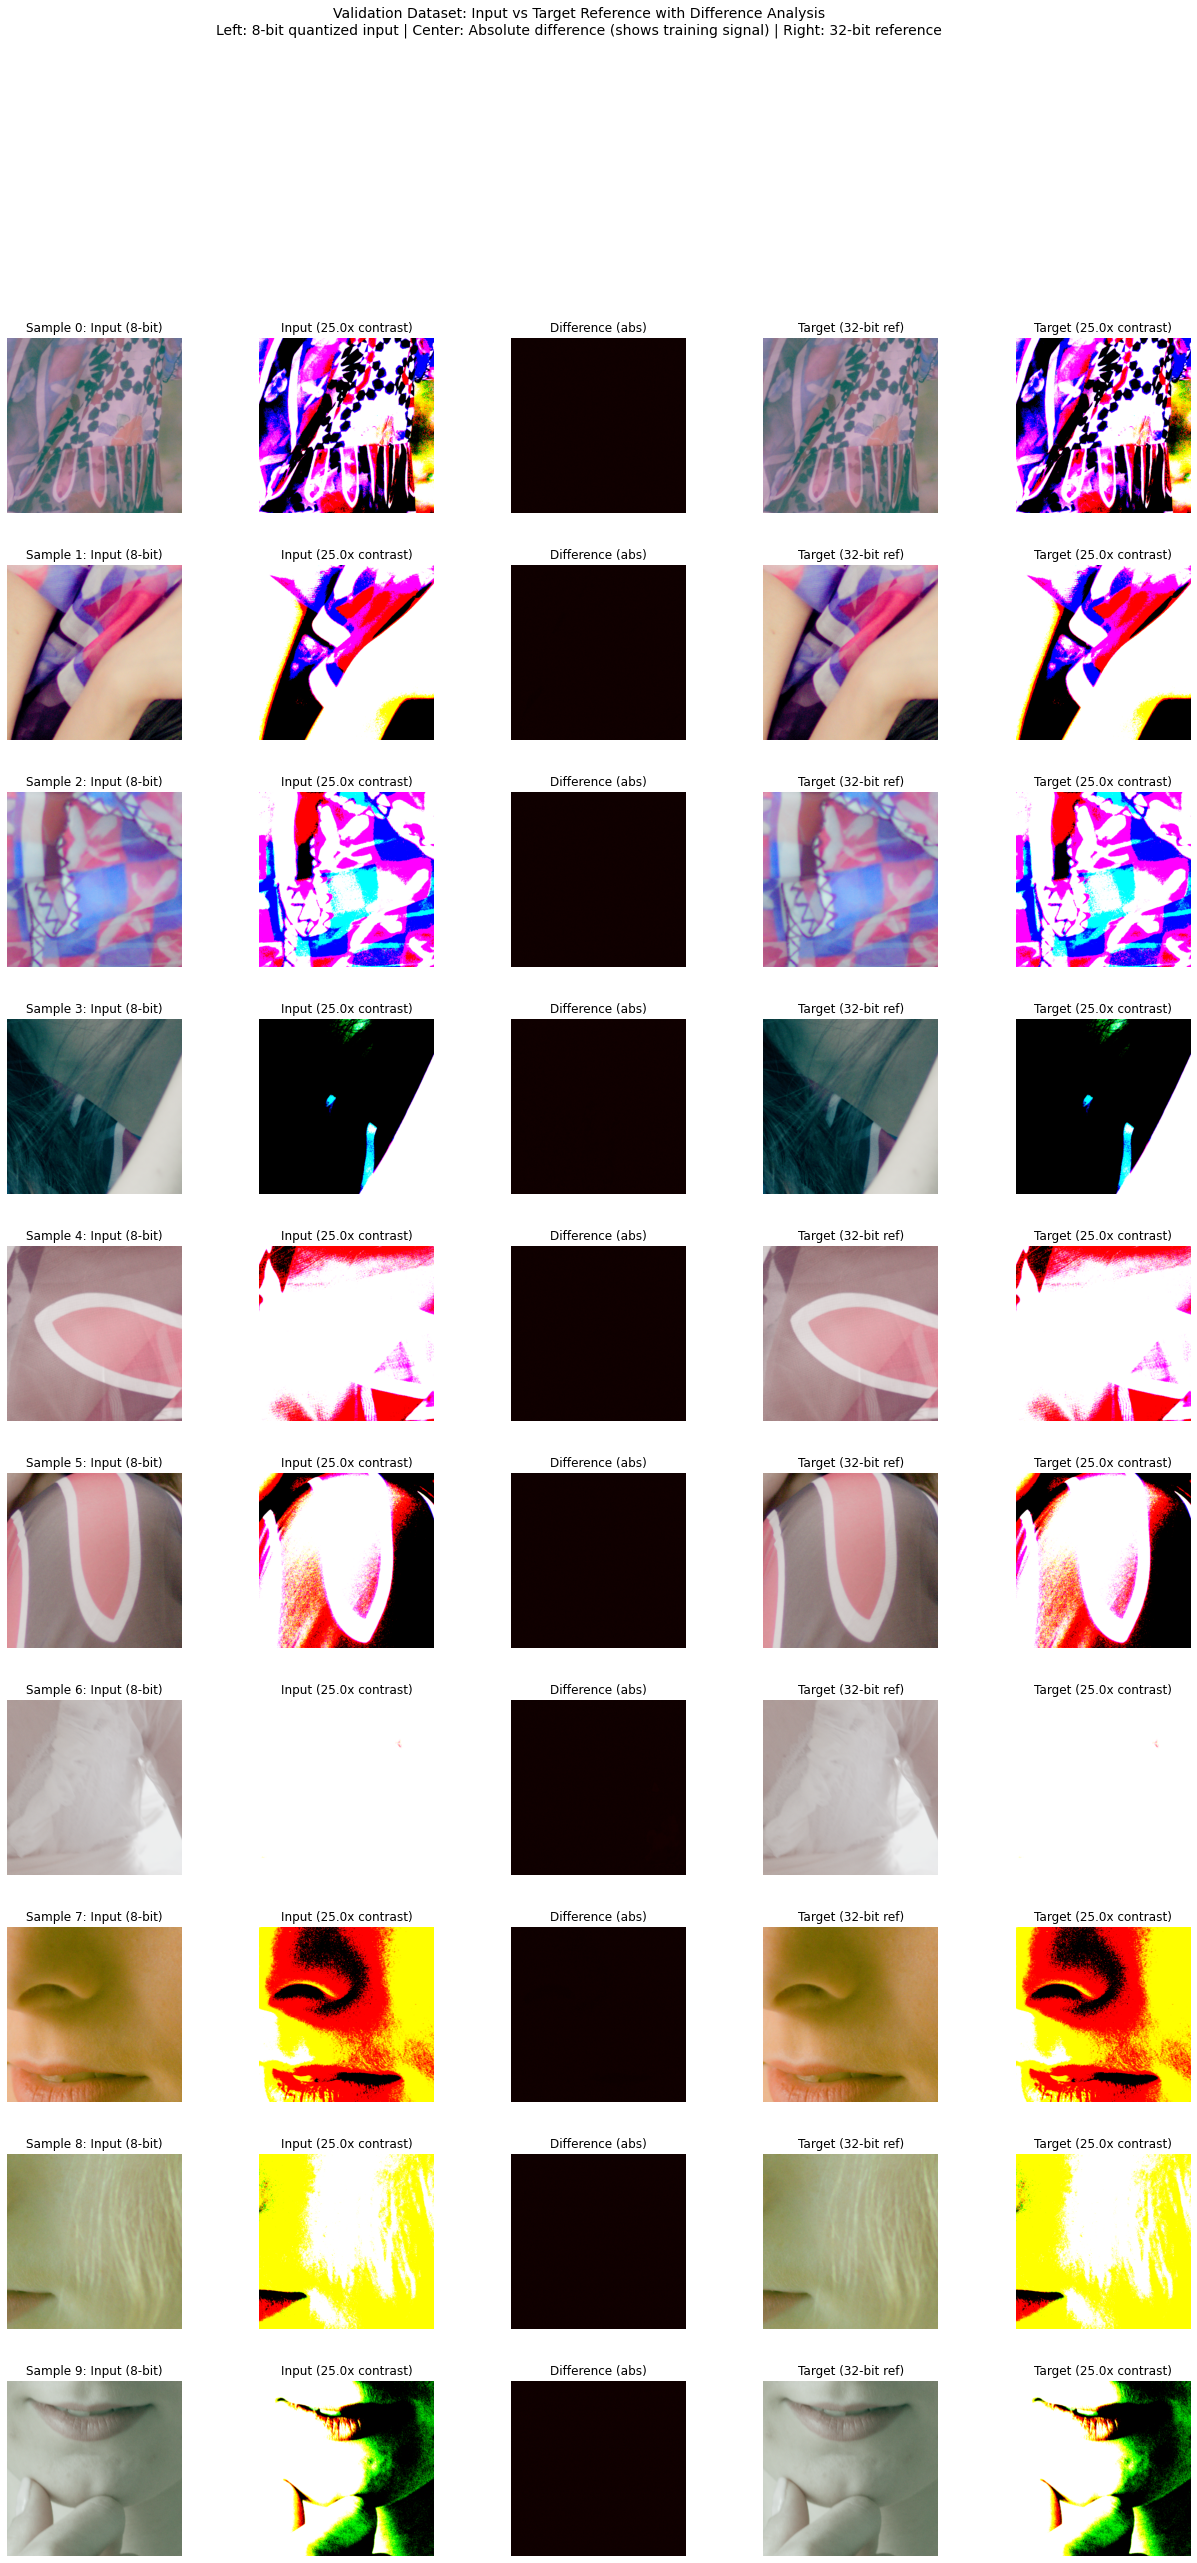
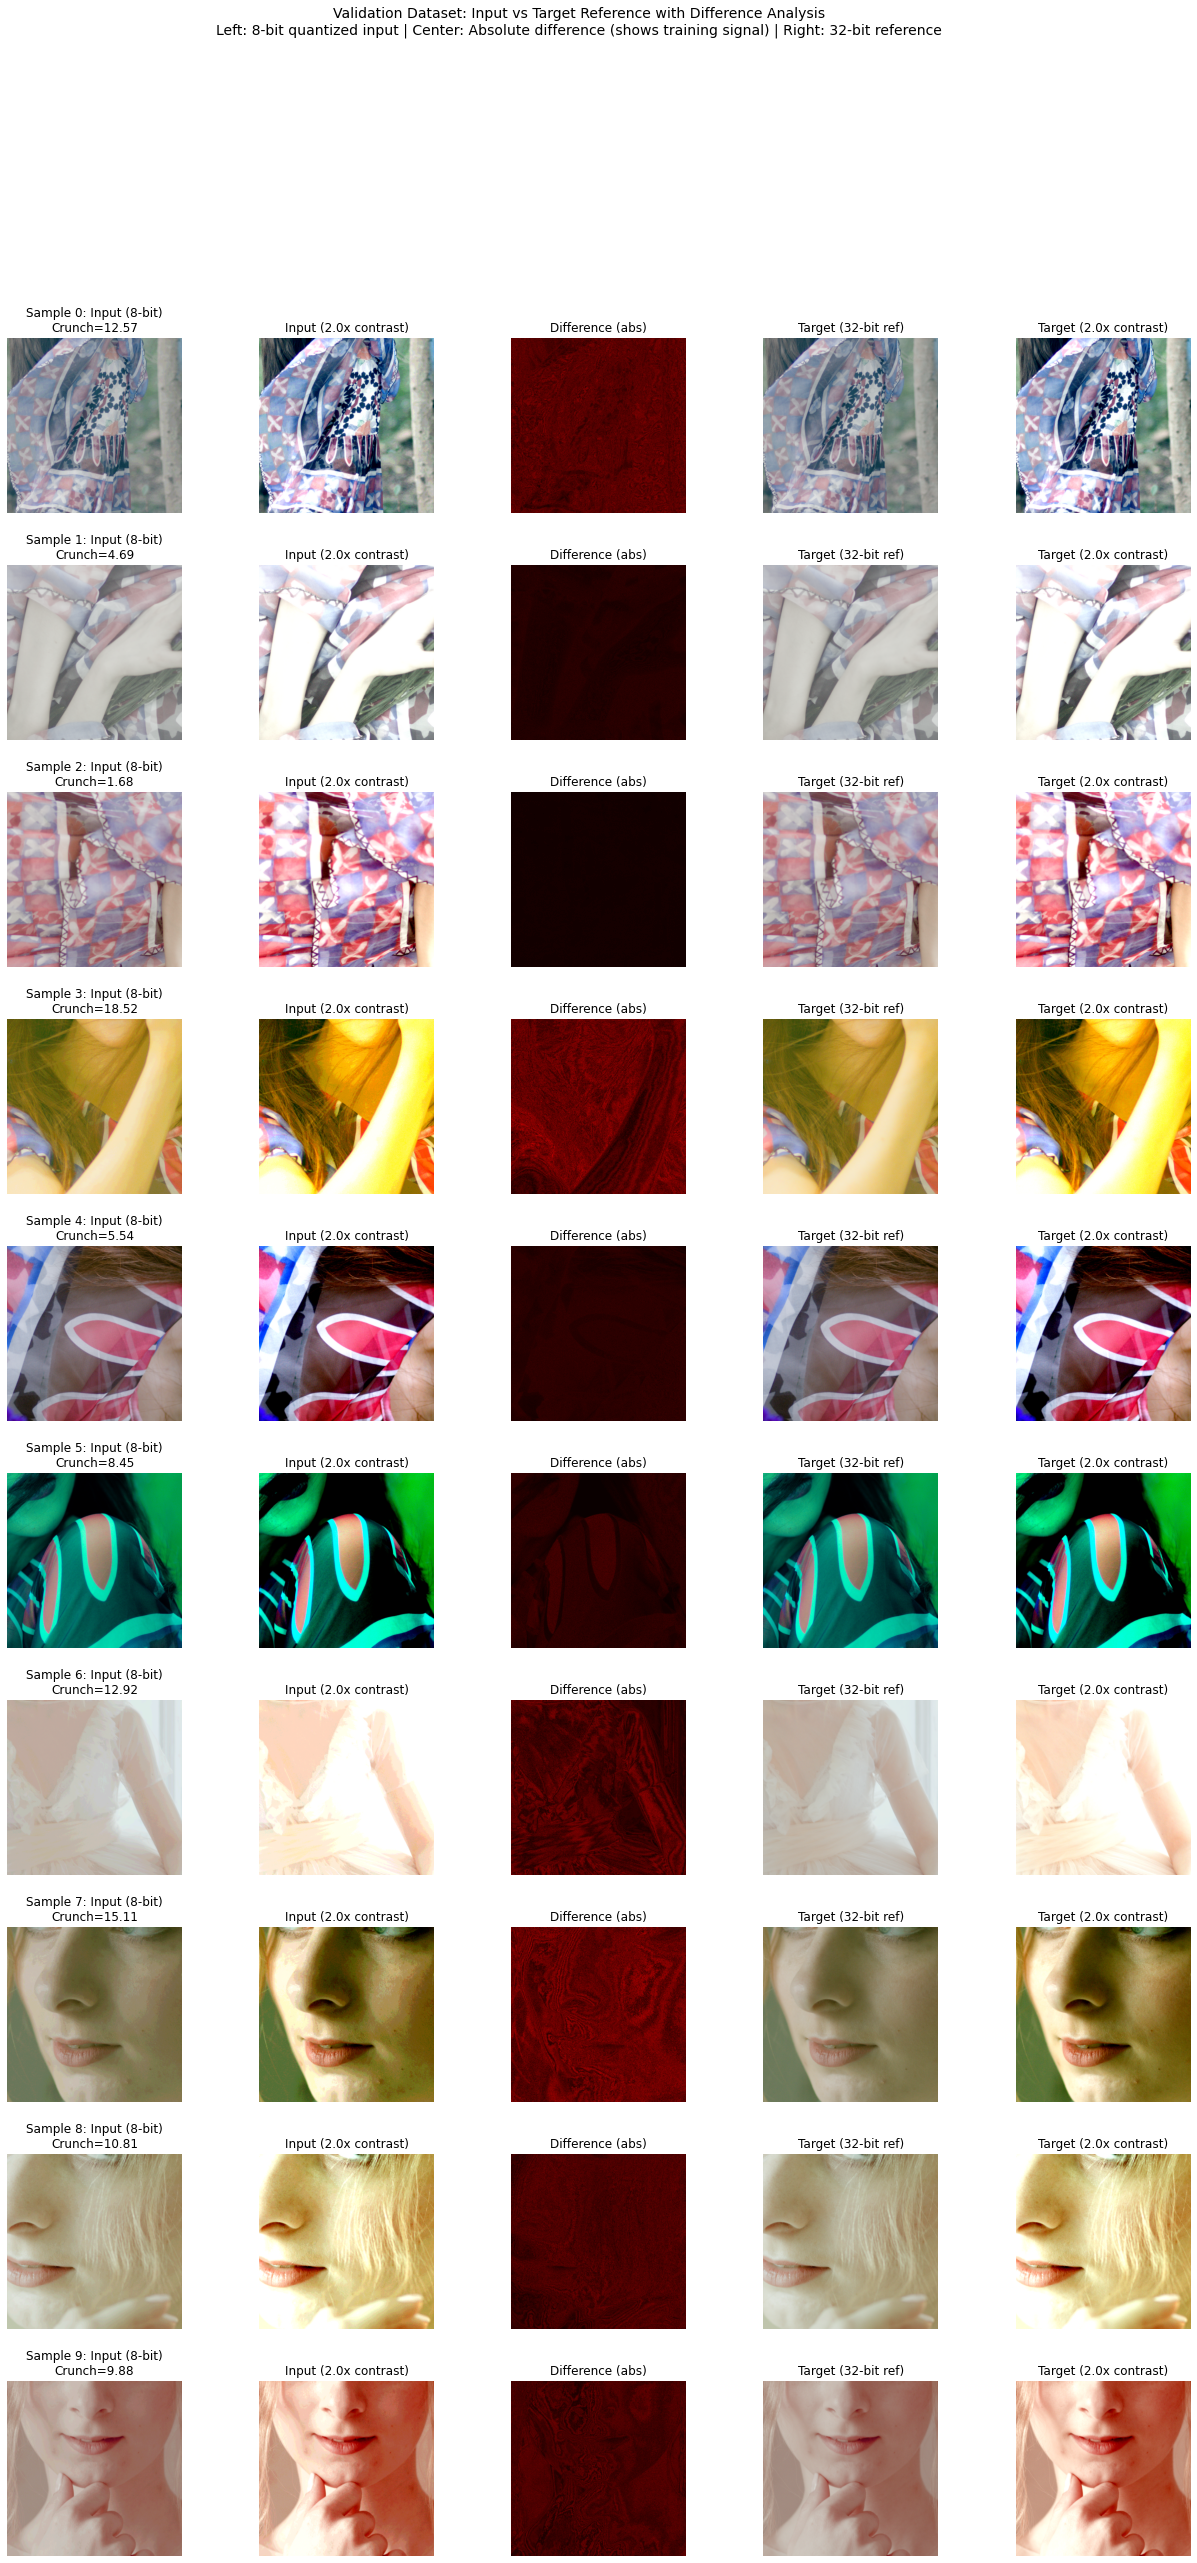
bit crunching

diff --git a/src/luminascale/utils/dataset_pair_generator.py b/src/luminascale/utils/dataset_pair_generator.py
@@ -53,9 +53,22 @@ class DatasetPairGenerator:
     def generate_batch_from_bytes(
         self, 
         exr_bytes_list: list[bytes], 
-        crop_size: int = 512
+        crop_size: int = 512,
+        bit_crunch_contrast_min: float = 1.0,
+        bit_crunch_contrast_max: float = 1.0,
     ) -> tuple[torch.Tensor, torch.Tensor, dict]:
         """Process a list of raw EXR bytes into graded sRGB 8u/32f pairs on GPU.
+        
+        Args:
+            exr_bytes_list: List of raw EXR bytes to process
+            crop_size: Size of square crop to extract (512 default)
+            bit_crunch_contrast_min: Minimum bit-crunching factor (1.0=no crunch, >1=aggressive)
+            bit_crunch_contrast_max: Maximum bit-crunching factor
+        
+        Bit-crunching: Symmetric contrast reduction and expansion around 8-bit quantization.
+        - Pre-quant: Reduce contrast by 1/bit_crunch_factor (crush data into 8-bit range)
+        - Quantize: Force through 8-bit bottleneck
+        - Post-quant: Expand by bit_crunch_factor (restore original contrast level)
         
         OPTIMIZED: Single-pass decode (eliminates validation pass).
         Pre-allocates output tensors and writes directly.
@@ -76,8 +89,18 @@ class DatasetPairGenerator:
         processed_samples = []
         tensors_8u = []
         tensors_32f = []
+        crunch_factors_used = []  # Track factors per image for validation
         
         for idx, exr_bytes in enumerate(exr_bytes_list):
+            # Randomize bit-crunching factor PER IMAGE for data augmentation
+            if bit_crunch_contrast_min != bit_crunch_contrast_max:
+                bit_crunch_factor = np.random.uniform(bit_crunch_contrast_min, bit_crunch_contrast_max)
+            else:
+                bit_crunch_factor = bit_crunch_contrast_min
+            
+            # Calculate symmetric pre/post contrast (reciprocal relationship)
+            pre_quant_contrast = 1.0 / bit_crunch_factor  # Reduce contrast (crush)
+            post_quant_contrast = bit_crunch_factor  # Expand contrast (restore)
             temp_file = None
             try:
                 t_sample = time.perf_counter()
@@ -170,18 +193,24 @@ class DatasetPairGenerator:
                 t_aces = time.perf_counter()
                 aces_times.append((t_aces - t_aces_start) * 1000)
                 
+                # === PRE-QUANTIZATION BIT CRUNCHING CONTRAST ===
+                srgb_32f = apply_s_curve_contrast_torch(srgb_32f, strength=pre_quant_contrast) # crush data into narrower range
+
                 # === QUANTIZATION ===
-                t_quant_start = time.perf_counter()
-                srgb_8u = ((srgb_32f * 255).round().to(torch.uint8)).float() / 255.0
-                srgb_8u = apply_s_curve_contrast_torch(srgb_8u, strength=2.5)
-                srgb_32f = apply_s_curve_contrast_torch(srgb_32f, strength=2.5)
+                t_quant_start = time.perf_counter()             
+                srgb_8u = ((srgb_32f * 255).round().to(torch.uint8)).float() / 255.0            
                 t_quant = time.perf_counter()
                 quant_times.append((t_quant - t_quant_start) * 1000)
                 
+                # === POST-QUANTIZATION BIT CRUNCHING CONTRAST ===
+                srgb_8u = apply_s_curve_contrast_torch(srgb_8u, strength=post_quant_contrast) # expand/enhance the quantized data
+                srgb_32f = apply_s_curve_contrast_torch(srgb_32f, strength=post_quant_contrast) # also apply to 32f target for consistency
+
                 # === PERMUTE & STORE ===
                 t_permute_start = time.perf_counter()
                 tensors_8u.append(srgb_8u.permute(2, 0, 1))
                 tensors_32f.append(srgb_32f.permute(2, 0, 1))
+                crunch_factors_used.append(bit_crunch_factor)
                 t_permute = time.perf_counter()
                 permute_times.append((t_permute - t_permute_start) * 1000)
                 
@@ -220,7 +249,8 @@ class DatasetPairGenerator:
             "look_gen_ms": np.mean(look_gen_times) if look_gen_times else 0,
             "permute_ms": np.mean(permute_times) if permute_times else 0,
             "stack_batch_ms": stack_time_ms,
-            "total_decode_batch_ms": total_time
+            "total_decode_batch_ms": total_time,
+            "crunch_factors": crunch_factors_used,  # Per-image bit-crunching factors for validation
         }
         
         # Calculate overhead from new granular timings

diff --git a/src/luminascale/training/dequantization_trainer.py b/src/luminascale/training/dequantization_trainer.py
@@ -47,6 +47,8 @@ class DequantizationTrainer(L.LightningModule):
         num_workers: int = 2,
         precision: str = "32",
         enable_profiling: bool = False,
+        bit_crunch_contrast_min: float = 1.0,
+        bit_crunch_contrast_max: float = 1.0,
     ) -> None:
         super().__init__()
         print(f"[DequantizationTrainer] Initializing LightningModule...")
@@ -75,6 +77,8 @@ class DequantizationTrainer(L.LightningModule):
         self.pair_generator = None  # Lazy initialization for WebDataset batches
         self.crop_size = crop_size  # Configurable crop size for WebDataset batches (training)
         self.val_crop_size = val_crop_size if val_crop_size is not None else crop_size  # Validation crop size (can differ for speed)
+        self.bit_crunch_contrast_min = bit_crunch_contrast_min  # Min bit-crunching factor
+        self.bit_crunch_contrast_max = bit_crunch_contrast_max  # Max bit-crunching factor
         self.batch_size = batch_size  # Batch size for throughput calculation (samples/sec)
         self.num_workers = num_workers  # Number of data loading workers
         self.precision = precision  # Mixed precision setting (e.g., "16-mixed", "32")
@@ -160,7 +164,7 @@ class DequantizationTrainer(L.LightningModule):
         # Just return the batch as-is for tensors; Lightning will move them
         return batch
 
-    def _process_batch(self, batch: tuple[list[bytes], list[dict]], crop_size: int | None = None) -> tuple[torch.Tensor, torch.Tensor, dict | None]:
+    def _process_batch(self, batch: tuple[list[bytes], list[dict]], crop_size: int | None = None, is_validation: bool = False) -> tuple[torch.Tensor, torch.Tensor, dict | None]:
         """Convert raw WDS batch (bytes) into graded training pairs (LDR, HDR) on GPU.
         
         With WebDataset.repeat(patches_per_image), consecutive items are from the same image.
@@ -170,6 +174,7 @@ class DequantizationTrainer(L.LightningModule):
         Args:
             batch: Tuple of (exr_bytes_list, metadata_list)
             crop_size: Optional crop size override. If None, uses self.crop_size
+            is_validation: If True, disables contrast augmentation (uses min value without randomization)
         
         Returns: (srgb_8u_batch, srgb_32f_batch, timing_dict)
         timing_dict contains component breakdown for cache misses, or cache_hit_ms for cache hits
@@ -230,10 +235,17 @@ class DequantizationTrainer(L.LightningModule):
             logger.debug(f"[PROCESS BATCH] Cache MISS - decoding image '{current_image_id}'")
             t_decode_start = time.perf_counter()
             
+            # For validation, use consistent bit-crunching (min value, no augmentation)
+            # For training, use randomized bit-crunching between min/max
+            bit_crunch_min = self.bit_crunch_contrast_min if is_validation else self.bit_crunch_contrast_min
+            bit_crunch_max = self.bit_crunch_contrast_min if is_validation else self.bit_crunch_contrast_max
+            
             # Decode full image(s) into graded sRGB pairs
             srgb_8u_batch, srgb_32f_batch, batch_timing_breakdown = self.pair_generator.generate_batch_from_bytes(
                 exr_bytes_list, 
-                crop_size=crop_size
+                crop_size=crop_size,
+                bit_crunch_contrast_min=bit_crunch_min,
+                bit_crunch_contrast_max=bit_crunch_max,
             )
             total_decode_ms = (time.perf_counter() - t_decode_start) * 1000
             logger.debug(f"[PROCESS BATCH] Decoded and graded {len(exr_bytes_list)} image(s) in {total_decode_ms:.1f}ms")
@@ -775,7 +787,8 @@ class DequantizationTrainer(L.LightningModule):
                 # WebDataset case: decode batch
                 if isinstance(batch[0], list) and len(batch[0]) > 0 and isinstance(batch[0][0], bytes):
                     # Use val_crop_size for validation crops (can be smaller for speed)
-                    x, y, _ = self._process_batch(batch, crop_size=self.val_crop_size)
+                    # Use is_validation=True to disable contrast augmentation
+                    x, y, _ = self._process_batch(batch, crop_size=self.val_crop_size, is_validation=True)
                 else:
                     # Standard tuple/list format: (x, y)
                     x, y = batch[0], batch[1]

diff --git a/visualisations/validate_training_pairs.py b/visualisations/validate_training_pairs.py
@@ -92,18 +92,32 @@ def create_visualization(
     pair_generator = DatasetPairGenerator(device=device)
     
     # Process all samples in one batch
-    input_8u_batch, target_32f_batch = pair_generator.generate_batch_from_bytes(
-        exr_bytes_list, crop_size=512
+    input_8u_batch, target_32f_batch, timing_breakdown = pair_generator.generate_batch_from_bytes(
+        exr_bytes_list, 
+        crop_size=1024, 
+        bit_crunch_contrast_min=1.0,
+        bit_crunch_contrast_max=20.0,
     )
     
     logger.info(f"✓ Processed {len(input_8u_batch)} samples")
+    logger.debug(f"Timing breakdown: {timing_breakdown}")
+    
+    # Extract and display per-image crunch factors to validate randomization
+    crunch_factors = timing_breakdown.get("crunch_factors", [])
+    if crunch_factors:
+        logger.info(f"Bit-crunch factors per image: {[f'{f:.2f}' for f in crunch_factors]}")
+        if len(set(f"{f:.2f}" for f in crunch_factors)) == 1:
+            logger.warning("⚠ All images have the SAME crunch factor (randomization may not be working)")
+        else:
+            logger.info(f"✓ Randomization confirmed: factors vary across images")
     
     # Create grid visualization
     num_samples = len(input_8u_batch)
     fig = plt.figure(figsize=(22, 4 * num_samples))
     gs = GridSpec(num_samples, 5, figure=fig, hspace=0.3, wspace=0.15)
     
-    contrast_factor = 25.0
+    contrast_factor = 2.0
+    crunch_factors = timing_breakdown.get("crunch_factors", [1.0] * num_samples)
     
     for sample_idx in range(num_samples):
         # Extract sample
@@ -122,10 +136,13 @@ def create_visualization(
         diff_np = np.abs(input_np - target_np)
         diff_gray = np.mean(diff_np, axis=2)  # Average across channels for grayscale
         
+        # Get crunch factor for this sample (for title display)
+        crunch = crunch_factors[sample_idx] if sample_idx < len(crunch_factors) else 1.0
+        
         # Plot row: input | input contrast | difference | target | target contrast
         ax1 = fig.add_subplot(gs[sample_idx, 0])
         ax1.imshow(input_np, cmap=None)
-        ax1.set_title(f"Sample {sample_idx}: Input (8-bit)")
+        ax1.set_title(f"Sample {sample_idx}: Input (8-bit)\nCrunch={crunch:.2f}")
         ax1.axis("off")
         
         ax2 = fig.add_subplot(gs[sample_idx, 1])

diff --git a/scripts/train_dequantization_net.py b/scripts/train_dequantization_net.py
@@ -690,6 +690,8 @@ def main(cfg: DictConfig) -> None:
         num_workers=cfg.get("num_workers", 2),
         precision=cfg.get("precision", "32"),
         enable_profiling=cfg.get("enable_profiling", False),  # Disable CUDA sync by default for speed
+        bit_crunch_contrast_min=cfg.get("bit_crunch_contrast_min", 1.0),
+        bit_crunch_contrast_max=cfg.get("bit_crunch_contrast_max", 1.0),
     )
     # Store estimated batches for progress bar
     ls_module.estimated_total_batches = train_dataset.get_estimated_batches()  # type: ignore
